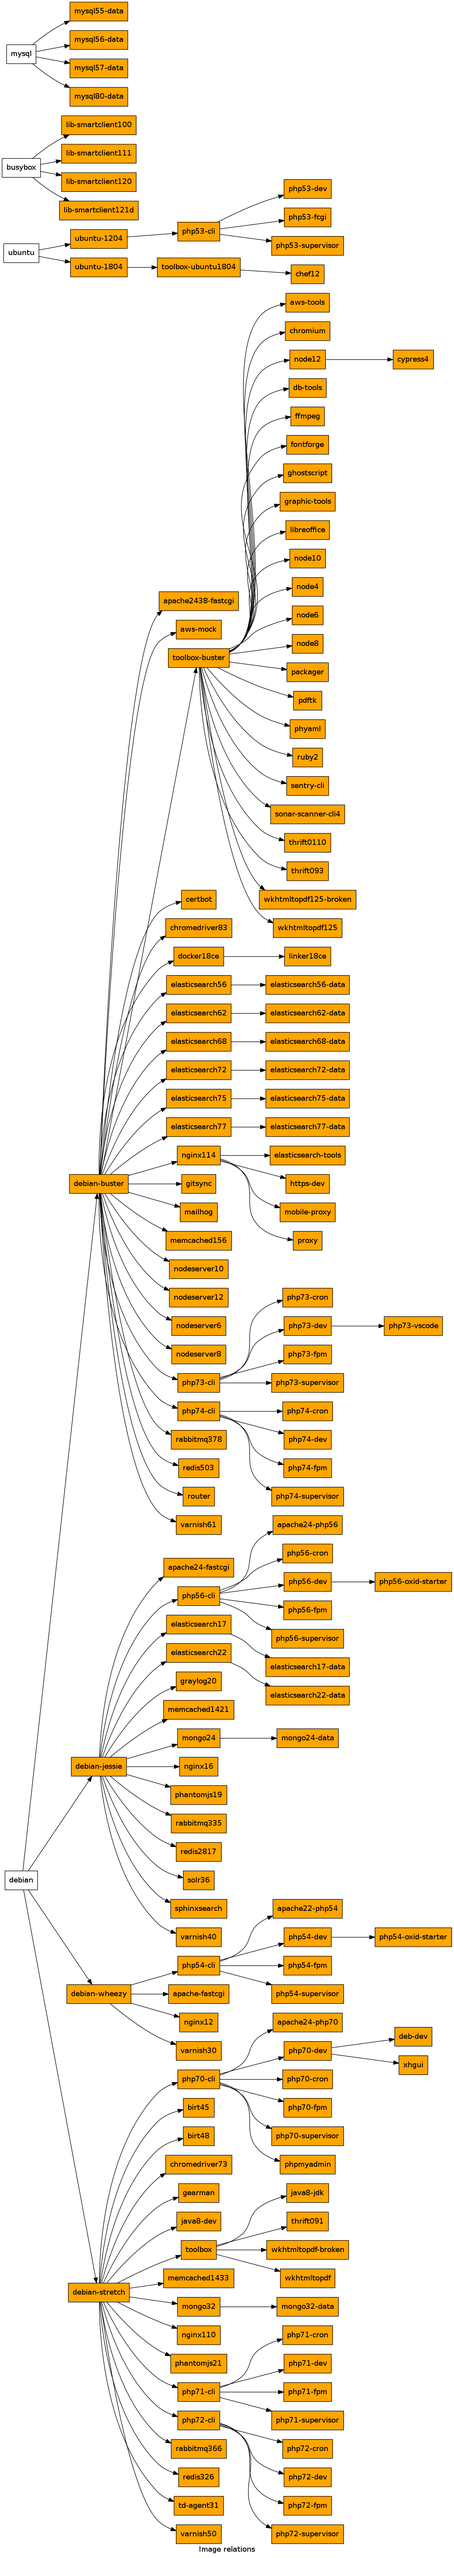
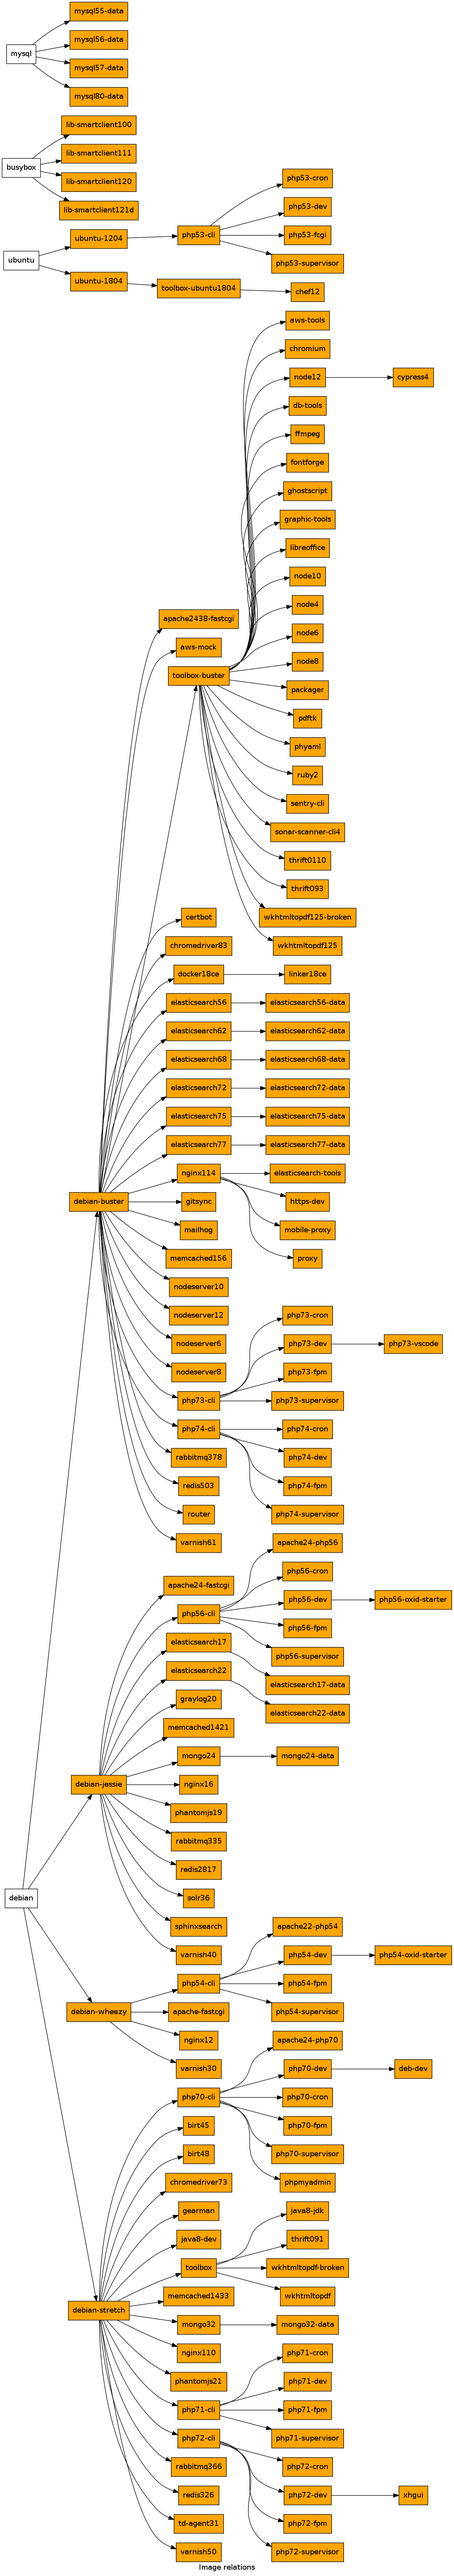
Image for php53-cron (#30)
* Image for php53-cron

* Regenerated dependency graph

diff --git a/php53-cron/README.md b/php53-cron/README.md
@@ -1,0 +1,29 @@
+
+## cron
+
+cron executed user cronjobs placed in NFQ_CRON_D_PATH directory.
+
+
+### logging 
+
+to log crontjob output to stdout append `2>&1|logger` to every job line
+
+default behavior is to send output via mail
+
+
+### NFQ_CRON_D_PATH (required)
+
+Startup script will wait for this dir to be present and not empty before
+starting cron daemon. This dir must contain at least one file. Multiple cron
+jobs can be defined in a single file. Modifications to files in this directory
+are detected automatically and crontab gets updated.
+
+default value: none
+
+
+
+## php
+
+Inherited features are described in [parent readme](../php53-cli/README.md)
+
+
